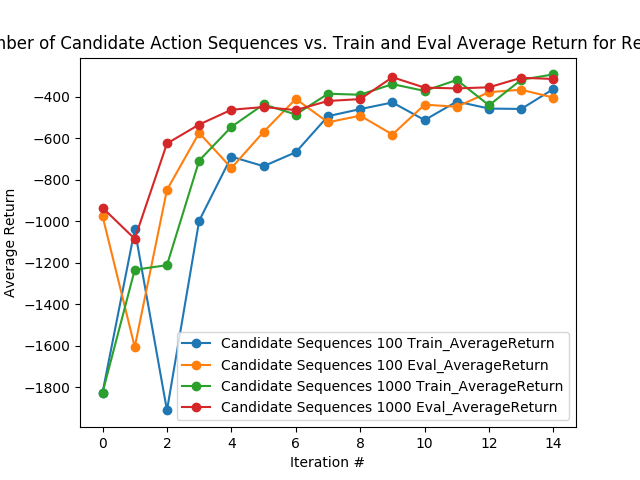
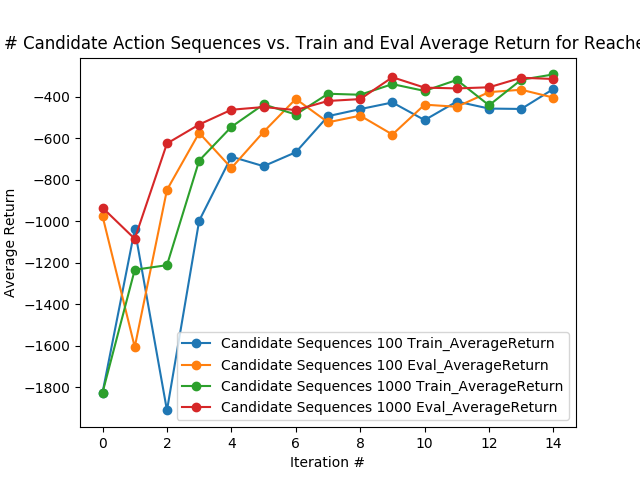
graph update

Changed region(s): [[0.0, 0.0625, 1.0, 0.125]]

diff --git a/hw4/visualize.py b/hw4/visualize.py
@@ -18,7 +18,7 @@ def get_section_results(file):
     return X, Y
 
 
-root_folder = 'data_final'
+root_folder = 'data'
 
 # Question 2
 logdir = '{}/hw4_q2_obstacles_singleiteration_obstacles-cs285-v0_03-11-2021_00-55-32/events*'.format(root_folder)
@@ -119,7 +119,7 @@ X, Y = get_section_results(eventfile)
 plt.plot(range(len(X)), X, label='Candidate Sequences 1000 Train_AverageReturn', marker='o')
 plt.plot(range(len(Y)), Y, label='Candidate Sequences 1000 Eval_AverageReturn', marker='o')
 
-plt.title('Number of Candidate Action Sequences vs. Train and Eval Average Return for Reacher')
+plt.title('# Candidate Action Sequences vs. Train and Eval Average Return for Reacher')
 plt.xlabel('Iteration #')
 plt.ylabel('Average Return')
 plt.legend()
@@ -152,4 +152,31 @@ plt.ylabel('Average Return')
 plt.legend()
 
 plt.savefig('plots/q4_horizon.png')
+plt.close()
+
+# Question 5 horizon
+logdir = '{}/hw4_q5_cheetah_random_cheetah-cs285-v0_03-11-2021_20-08-19/events*'.format(root_folder)
+eventfile = glob.glob(logdir)[0]
+X, Y = get_section_results(eventfile)
+plt.plot(range(len(X)), X, label='Random Shooting Train_AverageReturn', marker='o')
+plt.plot(range(len(Y)), Y, label='Random Shooting Eval_AverageReturn', marker='o')
+
+logdir = '{}/hw4_q5_cheetah_cem_2_cheetah-cs285-v0_04-11-2021_00-09-42/events*'.format(root_folder)
+eventfile = glob.glob(logdir)[0]
+X, Y = get_section_results(eventfile)
+plt.plot(range(len(X)), X, label='CEM 2 Train_AverageReturn', marker='o')
+plt.plot(range(len(Y)), Y, label='CEM 2 Eval_AverageReturn', marker='o')
+
+logdir = '{}/hw4_q5_cheetah_cem_4_cheetah-cs285-v0_04-11-2021_00-09-55/events*'.format(root_folder)
+eventfile = glob.glob(logdir)[0]
+X, Y = get_section_results(eventfile)
+plt.plot(range(len(X)), X, label='CEM 4 Train_AverageReturn', marker='o')
+plt.plot(range(len(Y)), Y, label='CEM 4 Eval_AverageReturn', marker='o')
+
+plt.title('Action Selection vs. Train and Eval Average Return for Cheetah')
+plt.xlabel('Iteration #')
+plt.ylabel('Average Return')
+plt.legend()
+
+plt.savefig('plots/q5.png')
 plt.close()
